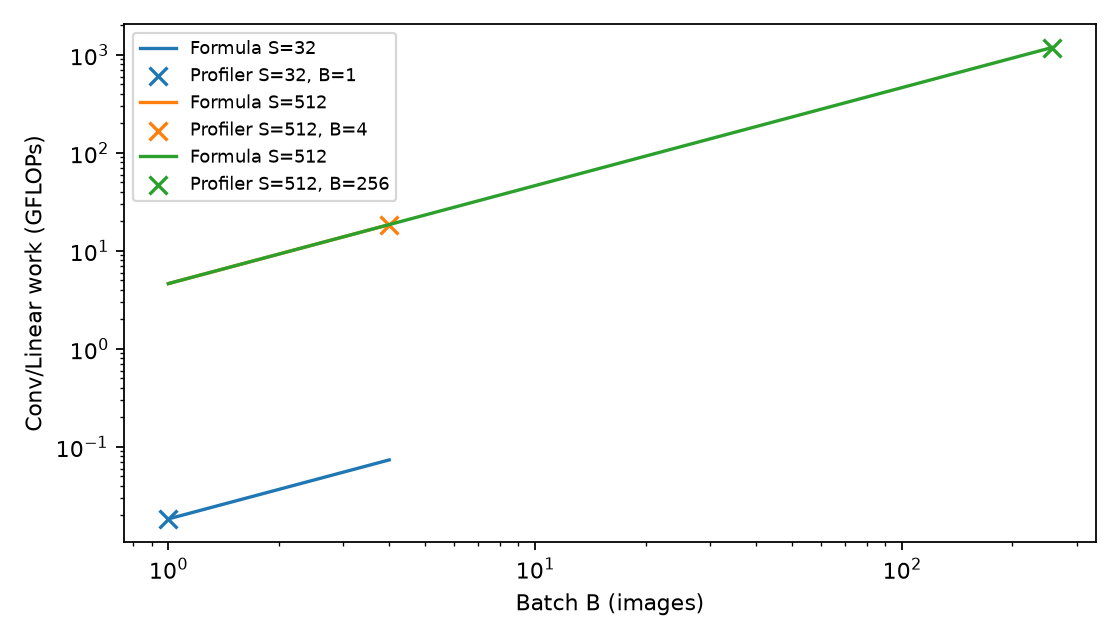
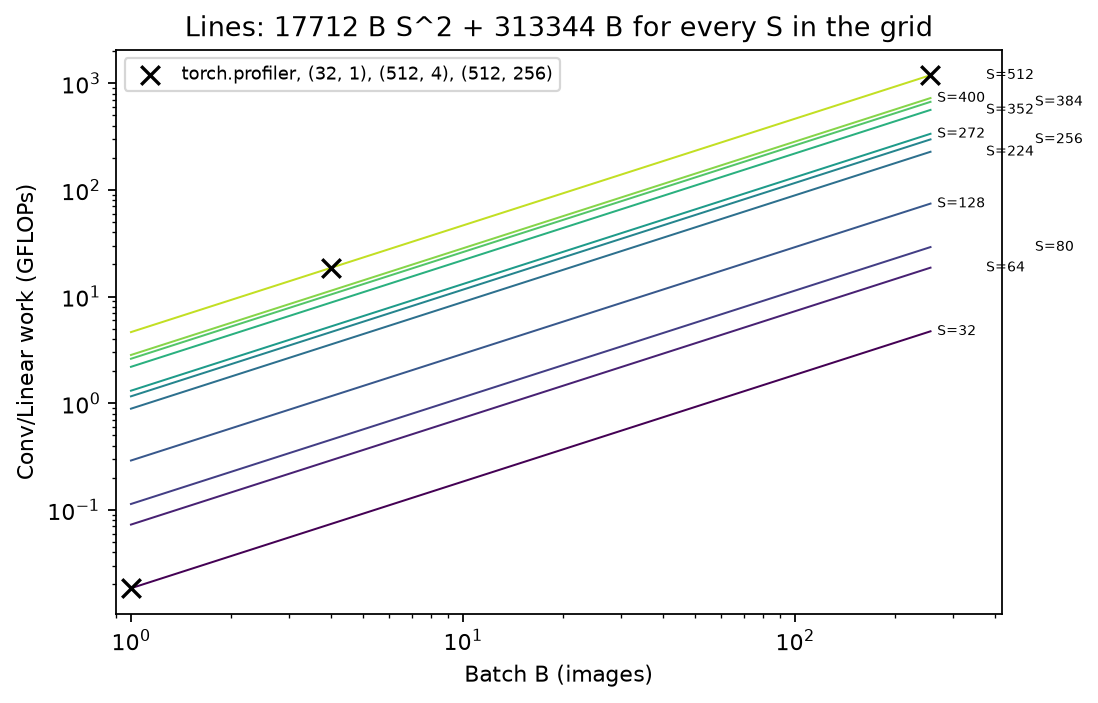
hw1: figure polish, README figure order

diff --git a/hw1/calibrate.py b/hw1/calibrate.py
@@ -9,7 +9,7 @@ import matplotlib.pyplot as plt
 import numpy as np
 from scipy.optimize import least_squares
 
-from hw1.equations import (bytes_moved, energy, flops, latency, latency_terms, memory,
+from hw1.equations import (PARAMETERS, bytes_moved, energy, flops, latency, latency_terms, memory,
                            memory_naive, memory_runtime_estimate)
 
 
@@ -199,16 +199,22 @@ def make_plots(rows, theta, folder, environment):
     if diagnostic_path.exists():
         diagnostics = [d for d in json.loads(diagnostic_path.read_text()) if d.get('profiler_flops', 0) > 0]
         if diagnostics:
-            fig, ax = plt.subplots(figsize=(7, 4))
-            for i, d in enumerate(diagnostics):
-                batches = np.arange(1, max(d['B'], 4) + 1)
-                ax.plot(batches, flops(d['S'], batches) / 1e9, color=f'C{i}', label=f"Formula S={d['S']}")
-                ax.scatter(d['B'], d['profiler_flops'] / 1e9, color=f'C{i}', marker='x', s=65,
-                           label=f"Profiler S={d['S']}, B={d['B']}")
-            ax.set(xscale='log', yscale='log', xlabel='Batch B (images)', ylabel='Conv/Linear work (GFLOPs)')
-            ax.legend(fontsize=8)
+            fig, ax = plt.subplots(figsize=(7, 4.5))
+            batches = np.arange(1, 257)
+            sizes = np.unique([r['S'] for r in rows])
+            for i, size in enumerate(sizes):
+                ax.plot(batches, flops(size, batches) / 1e9, color=plt.cm.viridis(i / len(sizes)), linewidth=.9)
+                # Neighbouring sizes (256/272, 352/384/400) almost coincide: stagger the labels.
+                ax.annotate(f'S={size}', (batches[-1], flops(size, batches[-1]) / 1e9), fontsize=6.5,
+                            xytext=([3, 25, 47][i % 3], 0), textcoords='offset points', va='center')
+            ax.scatter([d['B'] for d in diagnostics], [d['profiler_flops'] / 1e9 for d in diagnostics],
+                       color='k', marker='x', s=70, zorder=3,
+                       label='torch.profiler, ' + ', '.join(f"({d['S']}, {d['B']})" for d in diagnostics))
+            ax.set(xscale='log', yscale='log', xlabel='Batch B (images)', ylabel='Conv/Linear work (GFLOPs)',
+                   xlim=(0.9, 420), title='Lines: 17712 B S^2 + 313344 B for every S in the grid')
+            ax.legend(fontsize=8, loc='upper left')
             fig.tight_layout()
-            fig.savefig(out / 'flops.png', dpi=160)
+            fig.savefig(out / 'flops.png', dpi=160, bbox_inches='tight')
             plt.close(fig)
             report['flops_profiler'] = metrics(np.array([d['profiler_flops'] for d in diagnostics]),
                                               np.array([d['analytical_flops'] for d in diagnostics]))
@@ -223,13 +229,18 @@ def make_plots(rows, theta, folder, environment):
     ax.scatter(all_s[~oom], all_b[~oom], facecolors='none', edgecolors='k', s=24, label='Measured: fits')
     ax.scatter(all_s[oom], all_b[oom], color='red', marker='x', s=40, label='Measured: OOM')
     total = environment.get('total_memory_bytes')
+    title = 'Analytical memory() and observed outcomes' + ('' if oom.any() else ' (no OOM observed)')
     if total and memory(ss, bb).min() < total < memory(ss, bb).max():
         ax.contour(ss, bb, memory(ss, bb), levels=[total], colors='red', linestyles='--')
-    ax.set(xlabel='Image side S (pixels)', ylabel='Batch B (images)', yscale='log',
-           title='Analytical memory() and observed outcomes' + ('' if oom.any() else ' (no OOM observed)'))
-    ax.legend()
+    elif total:
+        # Where memory() would reach the card: solve 4P + 68 B S^2 = total.
+        reach = (total - 4 * PARAMETERS) / 68
+        title += (f'\nmemory() reaches the {total / 2**30:.1f} GiB of this GPU at B*S^2 = {reach:.2g} '
+                  f'(e.g. S=512, B={reach / 512**2:.0f}); grid maximum is B*S^2 = {(all_b * all_s**2).max():.2g}')
+    ax.set(xlabel='Image side S (pixels)', ylabel='Batch B (images)', yscale='log', title=title)
+    ax.legend(loc='upper center', bbox_to_anchor=(0.5, -0.12), ncol=2)
     fig.tight_layout()
-    fig.savefig(out / 'oom_boundary.png', dpi=160)
+    fig.savefig(out / 'oom_boundary.png', dpi=160, bbox_inches='tight')
     plt.close(fig)
     report['oom'] = {'observed': int(oom.sum()), 'configurations': len(rows),
                      'predicted_over_total_capacity': int(np.sum(memory(all_s, all_b) > total)) if total else None,
@@ -267,9 +278,9 @@ def make_plots(rows, theta, folder, environment):
     axes[2].scatter(all_s[oom], all_b[oom], color='k', marker='x', label='Measured OOM')
     axes[2].set(xlabel='Image side S (pixels)', ylabel='Batch B (images)', yscale='log',
                 title='Largest predicted term per configuration')
-    axes[2].legend(fontsize=8, loc='upper left', framealpha=.9)
+    axes[2].legend(fontsize=8, loc='upper center', bbox_to_anchor=(0.5, -0.16), ncol=2)
     fig.tight_layout()
-    fig.savefig(out / 'regimes.png', dpi=160)
+    fig.savefig(out / 'regimes.png', dpi=160, bbox_inches='tight')
     plt.close(fig)
     report['predicted_regimes'] = {name: int(np.sum(regimes == i))
                                    for i, name in enumerate(['launch', 'memory', 'compute'])}

diff --git a/hw1/README.md b/hw1/README.md
@@ -172,15 +172,17 @@ Fitted parameters:
   rest is the baseline. On a 16 GB card the OOM boundary lies outside the prescribed grid, so
   `oom_boundary.png` has no OOM points. Nothing was forced.
 
-`results/figures/`:
+`results/figures/`, in reading order (exact pieces first, fitted pieces next, then residuals and
+their explanation):
 
-- `memory.png`: measured peak vs `memory()` and the runtime-aware estimate (naive 13 B S^2 dotted)
-- `latency.png`, `energy.png`: predicted vs measured and per-S curves over B
-- `validation_error.png`: signed error vs GFLOPs, calibration vs validation
-- `flops.png`: formula vs profiler FLOPs
-- `oom_boundary.png`: predicted memory surface with observed fits/OOMs
-- `regimes.png`: the three latency terms over B*S^2, network arithmetic intensity against the fitted
-  ridge R/BW, and which term is largest at each (S, B)
+1. `flops.png`: the FLOP formula for every S in the grid, with the profiler counts at the traced points
+2. `memory.png`: measured peak vs `memory()` and the runtime-aware estimate (naive 13 B S^2 dotted)
+3. `oom_boundary.png`: predicted memory surface over the grid, observed fits/OOMs, and where `memory()`
+   would reach this GPU's capacity
+4. `latency.png`, `energy.png`: predicted vs measured and per-S curves over B
+5. `validation_error.png`: signed error vs GFLOPs, calibration vs validation
+6. `regimes.png`: the three latency terms over B*S^2, network arithmetic intensity against the fitted
+   ridge R/BW, and which term is largest at each (S, B)
 
 ## Where the equations break
 
